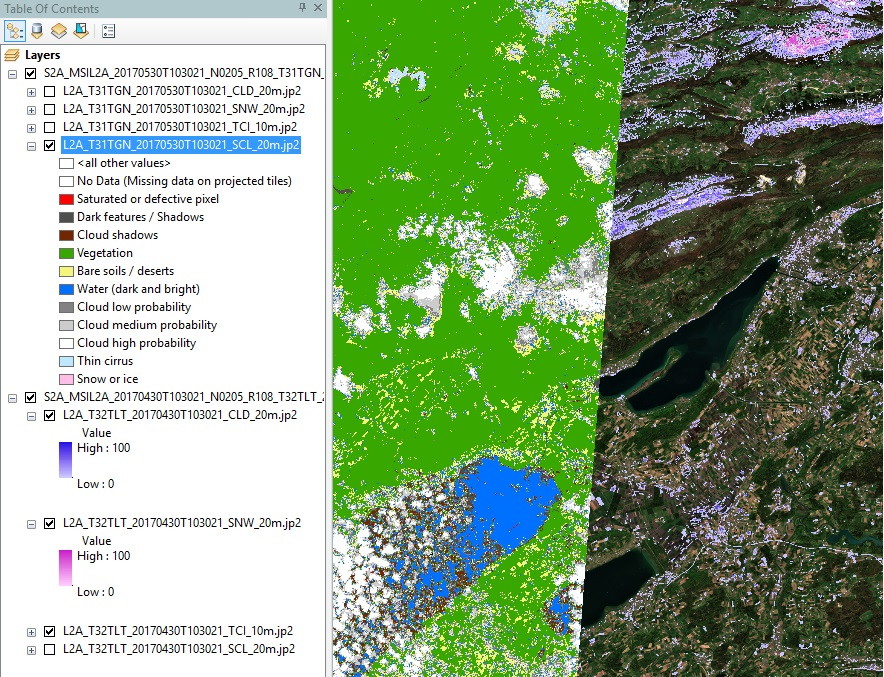
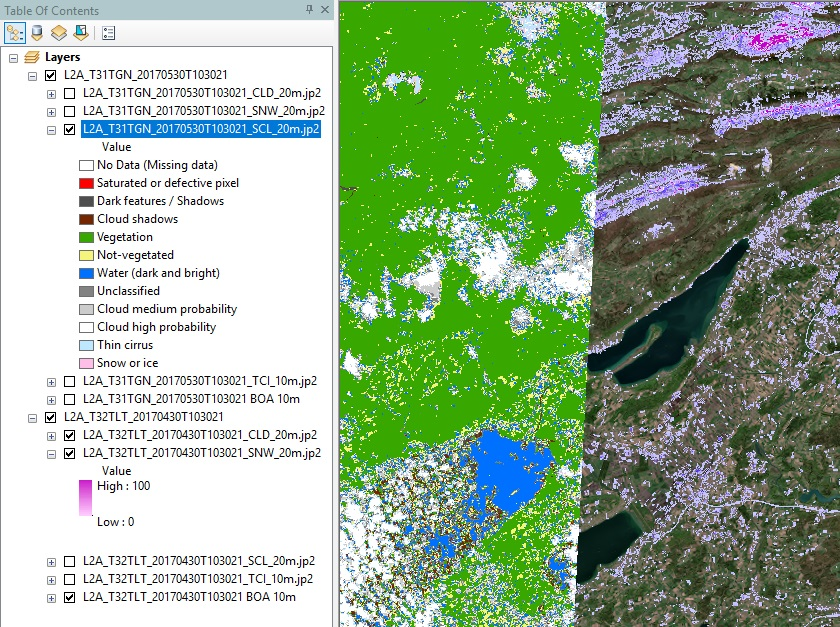
test

diff --git a/TEST.md b/TEST.md
@@ -14,10 +14,10 @@ The purpose is to provide assistance to occasional users to deal with Sentinel d
 Upon download success, the respective raster datasets are displayed in ArcMap.
 
 #### Characteristics
-* :new: ArcGIS 10.6 now provides L2A function templates with its built-in Sentinel-2 raster product type, whereof the "BOA reflectance-10m" template is added to a L2A Group Layer:  
+* :new: ArcGIS 10.6 now provides Level-2A (L2A) function templates with its built-in Sentinel-2 raster product type, whereof the 10 meter Bottom-Of-Atmosphere (BOA) template is added to a L2A Group Layer:  
   ![](doc/L2A.jpg "SCL of the upper product on the left,
-CLD+SNW+TCI of the lower product on the right.")
-* Level-2A (L2A) products, available from ESA's Copernicus Open Access Hub ([SciHub DHuS](https://scihub.copernicus.eu/dhus)) since begin of May 2017, are taken into account as an option. The _Download_ tool displays a L2A product by a Group Layer, composed of confidence images for cloud (CLD) and snow/ice (SNW), a scene classification image (SCL), and a natural color composite (TCI), along with appropriate symbology.
+CLD+SNW+BOA of the lower product on the right.")
+* L2A products, available from ESA's Copernicus Open Access Hub ([SciHub DHuS](https://scihub.copernicus.eu/dhus)) since begin of May 2017, are taken into account as an option. The _Download_ tool displays a L2A product by a Group Layer, composed of confidence images for cloud (CLD) and snow/ice (SNW), a scene classification image (SCL), and a natural color composite (TCI), along with appropriate symbology.
 * Irrespective of the existence of a specific product in the specified local raster directory, the _Download_ tool generates the corresponding output layer(s), even though all redundant download actions have been skipped. This might be useful when you simply want to recreate those layers incl. appropriate symbology.
 * The python interpreter automatically takes proxy server settings into account, either based on respective Internet Explorer settings, or based on the two environment variables `https_proxy` + `http_proxy` (incl. optional Basic Authorization. See the proxy-example*.* files within the [doc](doc) directory).
 * CODE-DE support (since March 2017): The [German mirror site provides DHuS](https://code-de.org/dhus) similary to Copernicus Open Access Hub (SciHub site). The Toolbox tools do now allow for choosing CODE-DE as an alternative DHuS site (in addition to the mainstream DHuS at SciHub site).  
